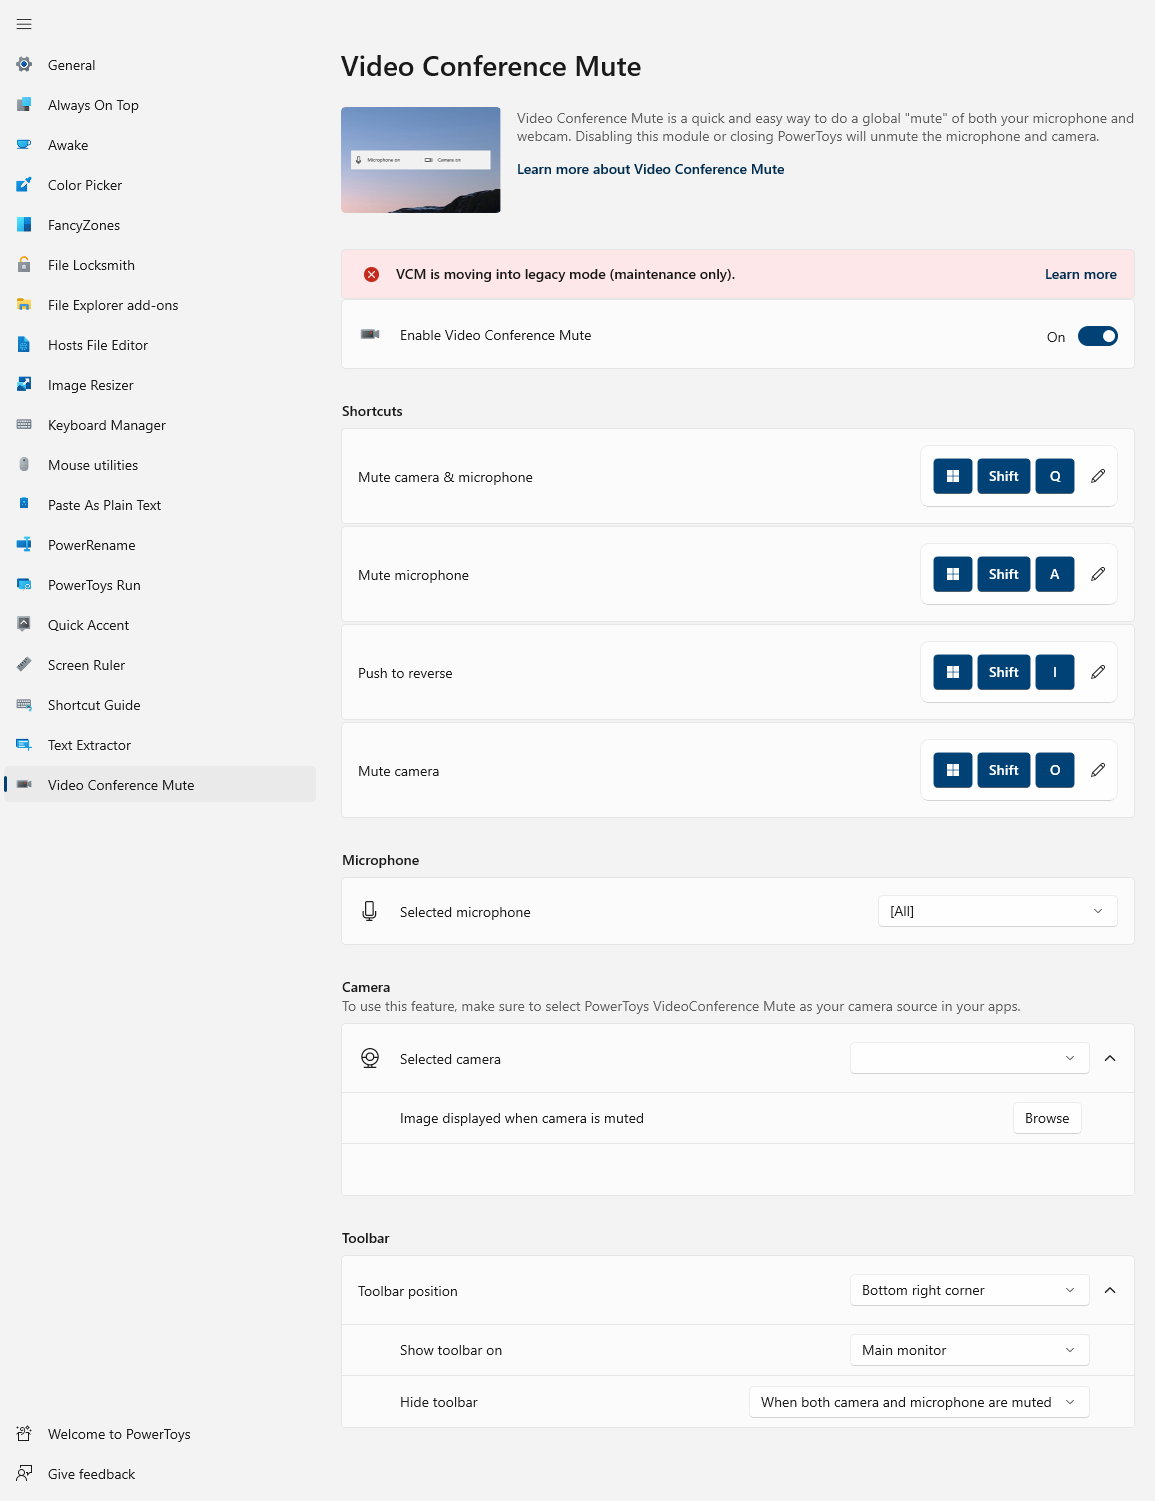
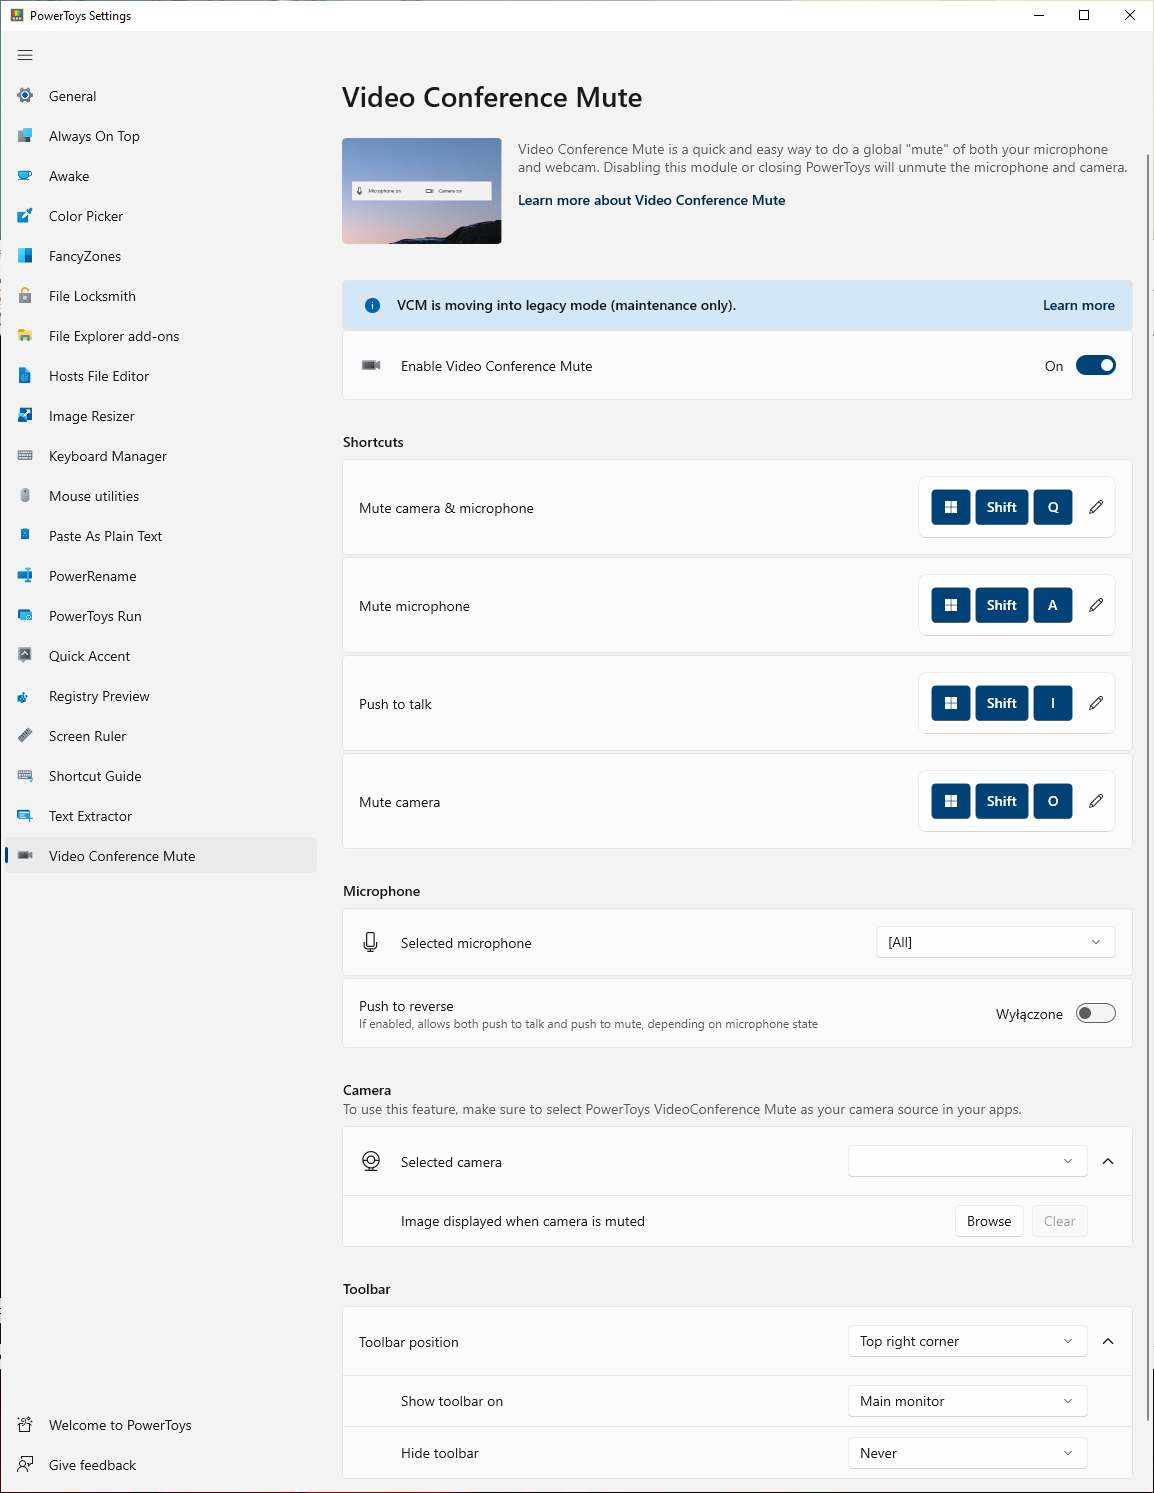
Add settings

diff --git a/hub/powertoys/video-conference-mute.md b/hub/powertoys/video-conference-mute.md
@@ -17,7 +17,7 @@ The default shortcuts to use Video Conference Mute are:
 
 - <kbd>⊞ Win</kbd>+<kbd>Shift</kbd>+<kbd>Q</kbd> to toggle both audio and video at the same time
 - <kbd>⊞ Win</kbd>+<kbd>Shift</kbd>+<kbd>A</kbd> to toggle microphone
-- <kbd>⊞ Win</kbd>+<kbd>Shift</kbd>+<kbd>I</kbd> to push to reverse
+- <kbd>⊞ Win</kbd>+<kbd>Shift</kbd>+<kbd>I</kbd> to push to talk
 - <kbd>⊞ Win</kbd>+<kbd>Shift</kbd>+<kbd>O</kbd> to toggle camera
 
 When using the microphone and/or camera toggle shortcut keys, you will see a small toolbar letting you know whether your microphone and camera are set to on, off, or not in use. You can set the position of this toolbar in the Video Conference Mute tab of PowerToys settings.
@@ -37,6 +37,7 @@ The Video Conference Mute page in Settings provides the following options:
 | :--- | :--- |
 | Shortcuts | Change the shortcut key used to mute your microphone, camera, or both combined. |
 | Selected microphone | Select the microphone on your machine that this utility will use. |
+| Push to reverse | If enabled, allows both push to talk and push to mute, depending on microphone state. |
 | Selected camera | Select the camera on your machine that this utility will use. |
 | Camera overlay image | Select an image to that will be used as a placeholder when your camera is turned off. By default, a black screen will appear when your camera is turned off with this utility. |
 | Toolbar | Set the position where the _Microphone On, Camera On_ toolbar displays when toggled (default: top right corner). |
